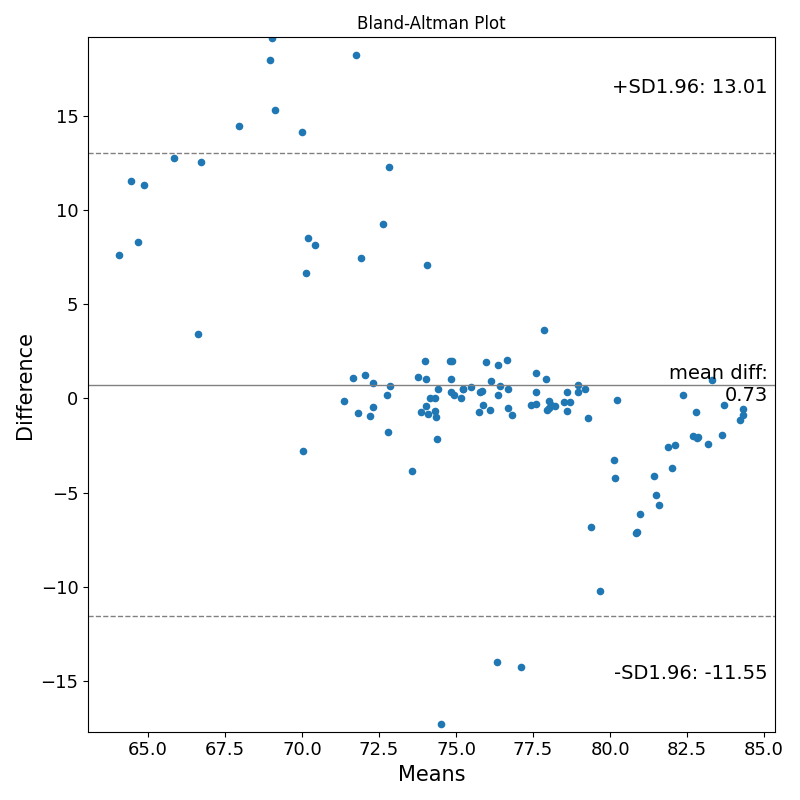
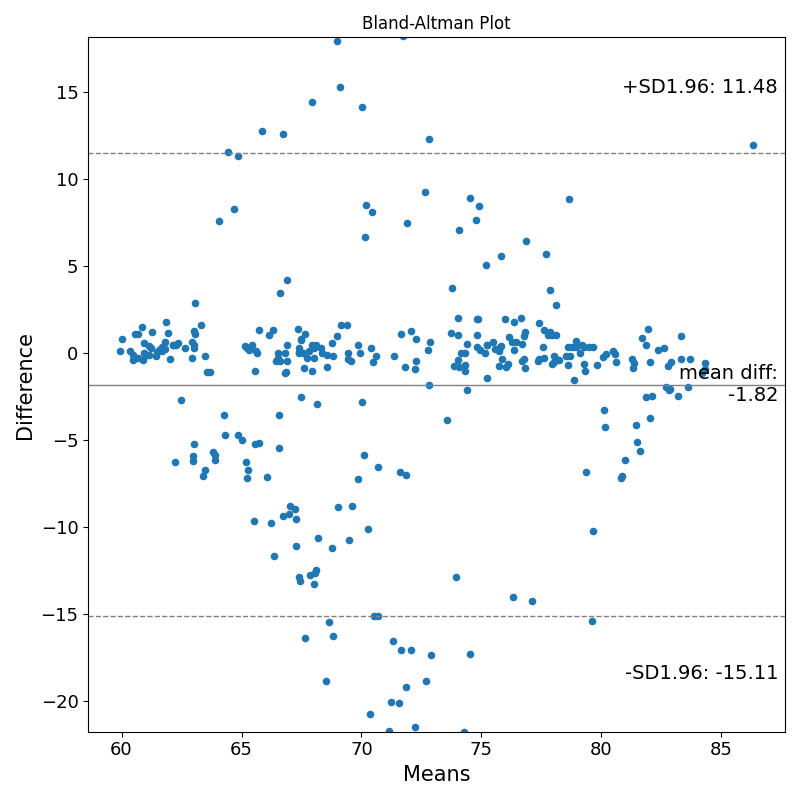
done

diff --git a/code/main.py b/code/main.py
@@ -31,7 +31,7 @@ def main():
     ecg_hr = []
     bcg_hr = []
     # Loop over all files in the folder
-    for file in os.listdir(data_folder):
+    for file in os.listdir(data_folder)[:10]:
         if file.endswith(".csv") and file.startswith("X"):
             print(os.path.join(data_folder, file))
             path = os.path.join(data_folder, file)
@@ -67,33 +67,38 @@ def main():
             dc = modwtmra(w, 'bior3.9')
             wavelet_cycle = dc[4]
             limit = int(math.floor(bcg.size / WINDOW_N))
-            # j_peaks = detect_peaks(bcg, show=False) # Detect J peaks
             hr_bcg = vitals(T1, T2, WINDOW_N, limit, wavelet_cycle, F_SAMPLE, mpd=1, plot=0)
             print("Heart rate (BCG): " + str(hr_bcg))
 
 
             # OUTPUTS --------------------------------------------------------------------
             
-            # Print the results of the two methods
-
-            print("Printing results...\n")
-            prints.print_summary(hr_ecg,hr_bcg,file[1:5])
+            
+            # if nan in hr_ecg or nan in hr_bcg remove it
+            if np.isnan(hr_ecg).any():
+                hr_ecg = np.nan_to_num(hr_ecg)
+            if np.isnan(hr_bcg).any():
+                hr_bcg = np.nan_to_num(hr_bcg)
 
             # if one is larger than the other, remove the last element
             if len(hr_ecg) > len(hr_bcg):
                 ecg_hr = hr_ecg[:-1]
             elif len(hr_ecg) < len(hr_bcg):
                 hr_bcg = hr_bcg[:-1]
-                
+            
+            # append to the big list (all patients)
             ecg_hr.append(hr_ecg)
             bcg_hr.append(hr_bcg)
             
-            stats.calculate_stats(hr_ecg,hr_bcg, file[1:5])
+            # Print the results of the two methods
+            print("Printing results...\n")
+
+            stat_dict = stats.calculate_stats(hr_ecg,hr_bcg, file[1:5])
+            prints.print_summary(hr_ecg,hr_bcg, file[1:5])
+            prints.print_full_summary(hr_ecg,hr_bcg, stat_dict, file[1:5])
             
     # Plot the results of the two methods 
     print("Plotting results...")
-    # ecg_hr = np.array(ecg_hr).flatten()
-    # bcg_hr = np.array(bcg_hr).flatten()
 
     # flatten ecg_hr and bcg_hr
     ecg_hr = [item for sublist in ecg_hr for item in sublist]
@@ -106,15 +111,6 @@ def main():
 
     # hold program
     input("Press Enter to continue...")
-
-
-        # plt.figure(figsize=(10, 5))
-        # plt.plot(ecg_hr, label='ECG')
-        # plt.plot(bcg_hr, label='BCG')
-        # plt.xlabel('Patient')
-        # plt.ylabel('Heart rate (bpm)')
-        # plt.legend()
-        # plt.show()
 
 if __name__ == '__main__':
     main()

diff --git a/code/prints.py b/code/prints.py
@@ -27,12 +27,13 @@ def print_summary(hr_ecg,hr_bcg,patient_id):
 
     return summary
 
-def print_full_summary(hr_ecg,hr_bcg,patient_id):
+def print_full_summary(hr_ecg,hr_bcg,stats, patient_id):
+
+    filename = 'results/summary.txt'
 
     #convert prints to string
     summary = '------------------------------------------------------------------\n'
-    summary += 'patient id : ' + str(patient_id) + '\n'
-    summary += 'Heart Rate Information\n'
+    summary += 'Patient ID : ' + str(patient_id) + '\n'
     summary += '----------------------\n'
     summary += 'ECG \n'
     summary += 'HR Array : ' + str(hr_ecg) + '\n'
@@ -46,11 +47,15 @@ def print_full_summary(hr_ecg,hr_bcg,patient_id):
     summary += 'Maximum pulse : ' + str(np.around(np.max(hr_bcg))) + '\n'
     summary += 'Average pulse : ' + str(np.around(np.mean(hr_bcg))) + '\n'
     summary += '----------------------\n'
+    summary += 'Statistics \n'
+    summary += 'Mean Absolute Error : ' + str(stats['MAE']) + '\n'
+    summary += 'Root Mean Square Error : ' + str(stats['RMSE']) + '\n'
+    summary += 'Mean Absolute Percentage Error : ' + str(stats['MAPE']) + '\n'
     summary += '------------------------------------------------------------------\n'
 
-    # #save summary to file
-    # with open('results/summary.txt', 'a') as f:
-    #     f.write(summary)
+    #append summary to file
+    with open(filename, 'a') as f:
+        f.write(summary)
 
     print(summary)
 

diff --git a/code/stats.py b/code/stats.py
@@ -35,3 +35,6 @@ def calculate_stats(ecg,bcg, patient_id):
     print("Mean Absolute Error = " + str(mean_absolute_error))
     print("Root Mean Square Error = " + str(root_mean_square_error))
     print("Mean Absolute Percentage Error = " + str(mean_absolute_percentage_error)+ "%")
+
+    #return dictionary of stats
+    return {"MAE":mean_absolute_error,"RMSE":root_mean_square_error,"MAPE":mean_absolute_percentage_error}
